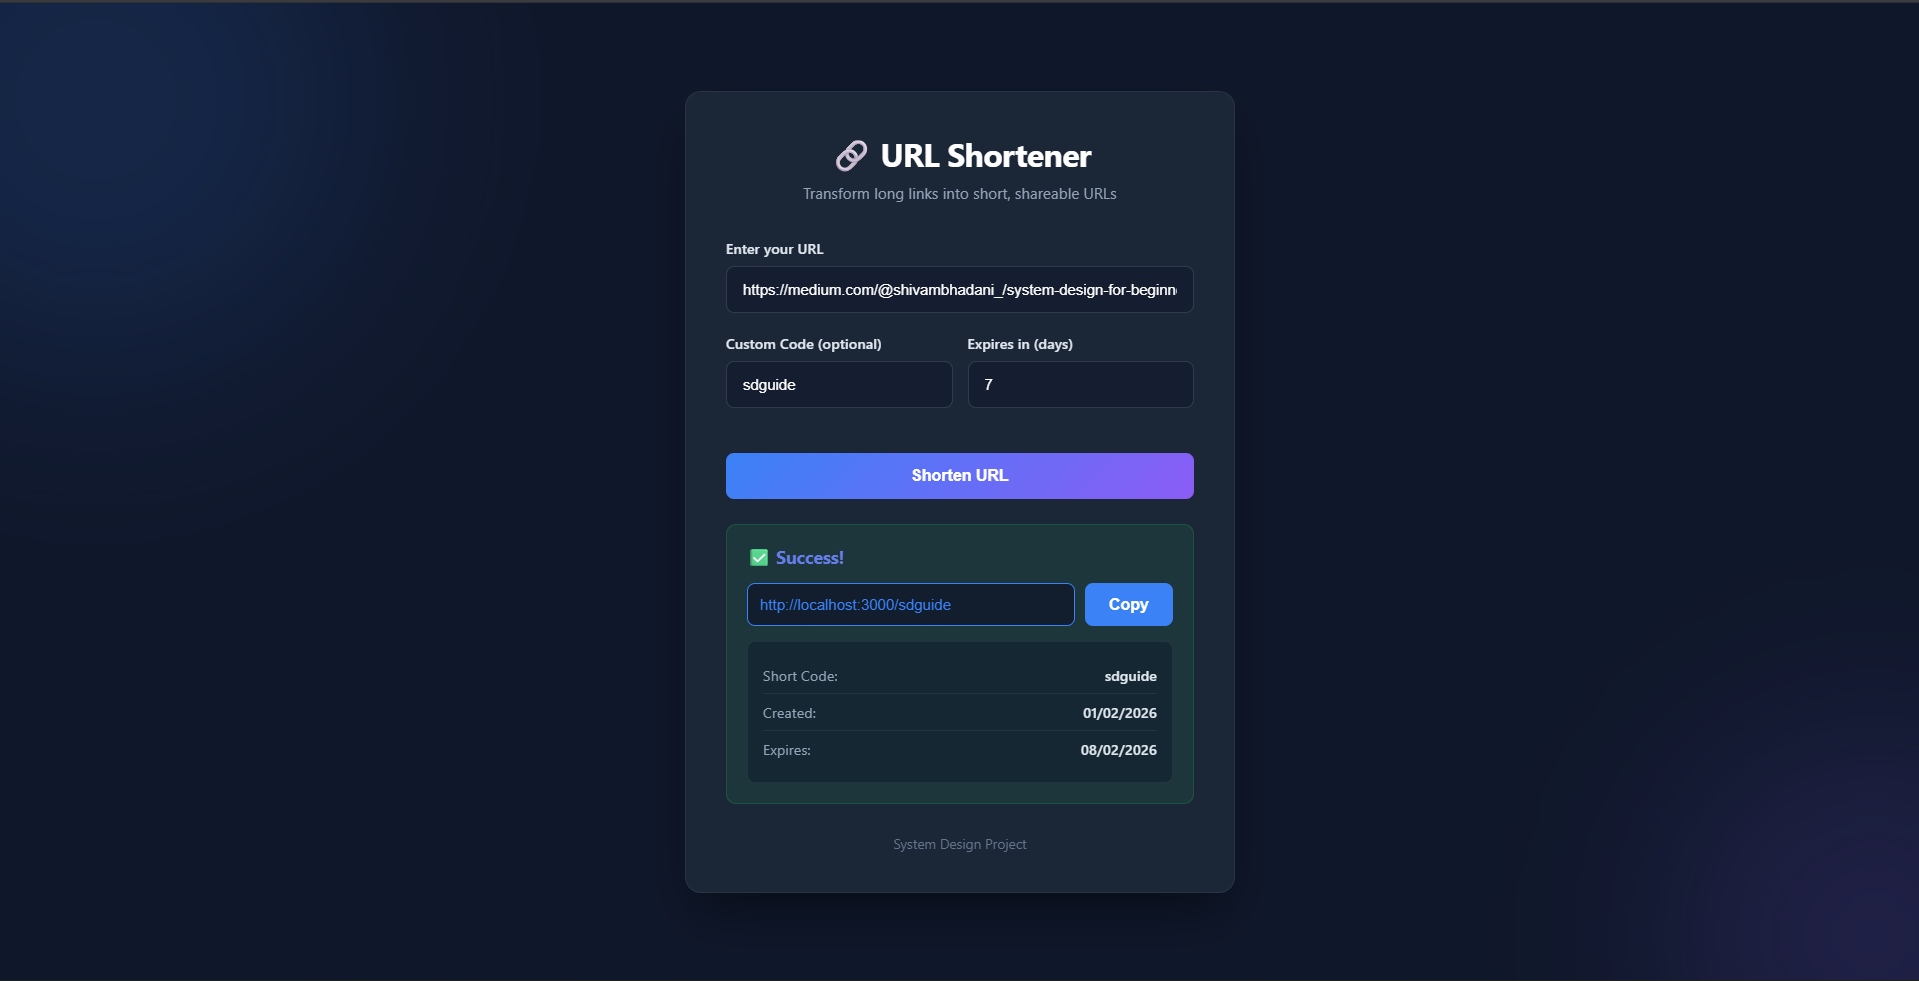
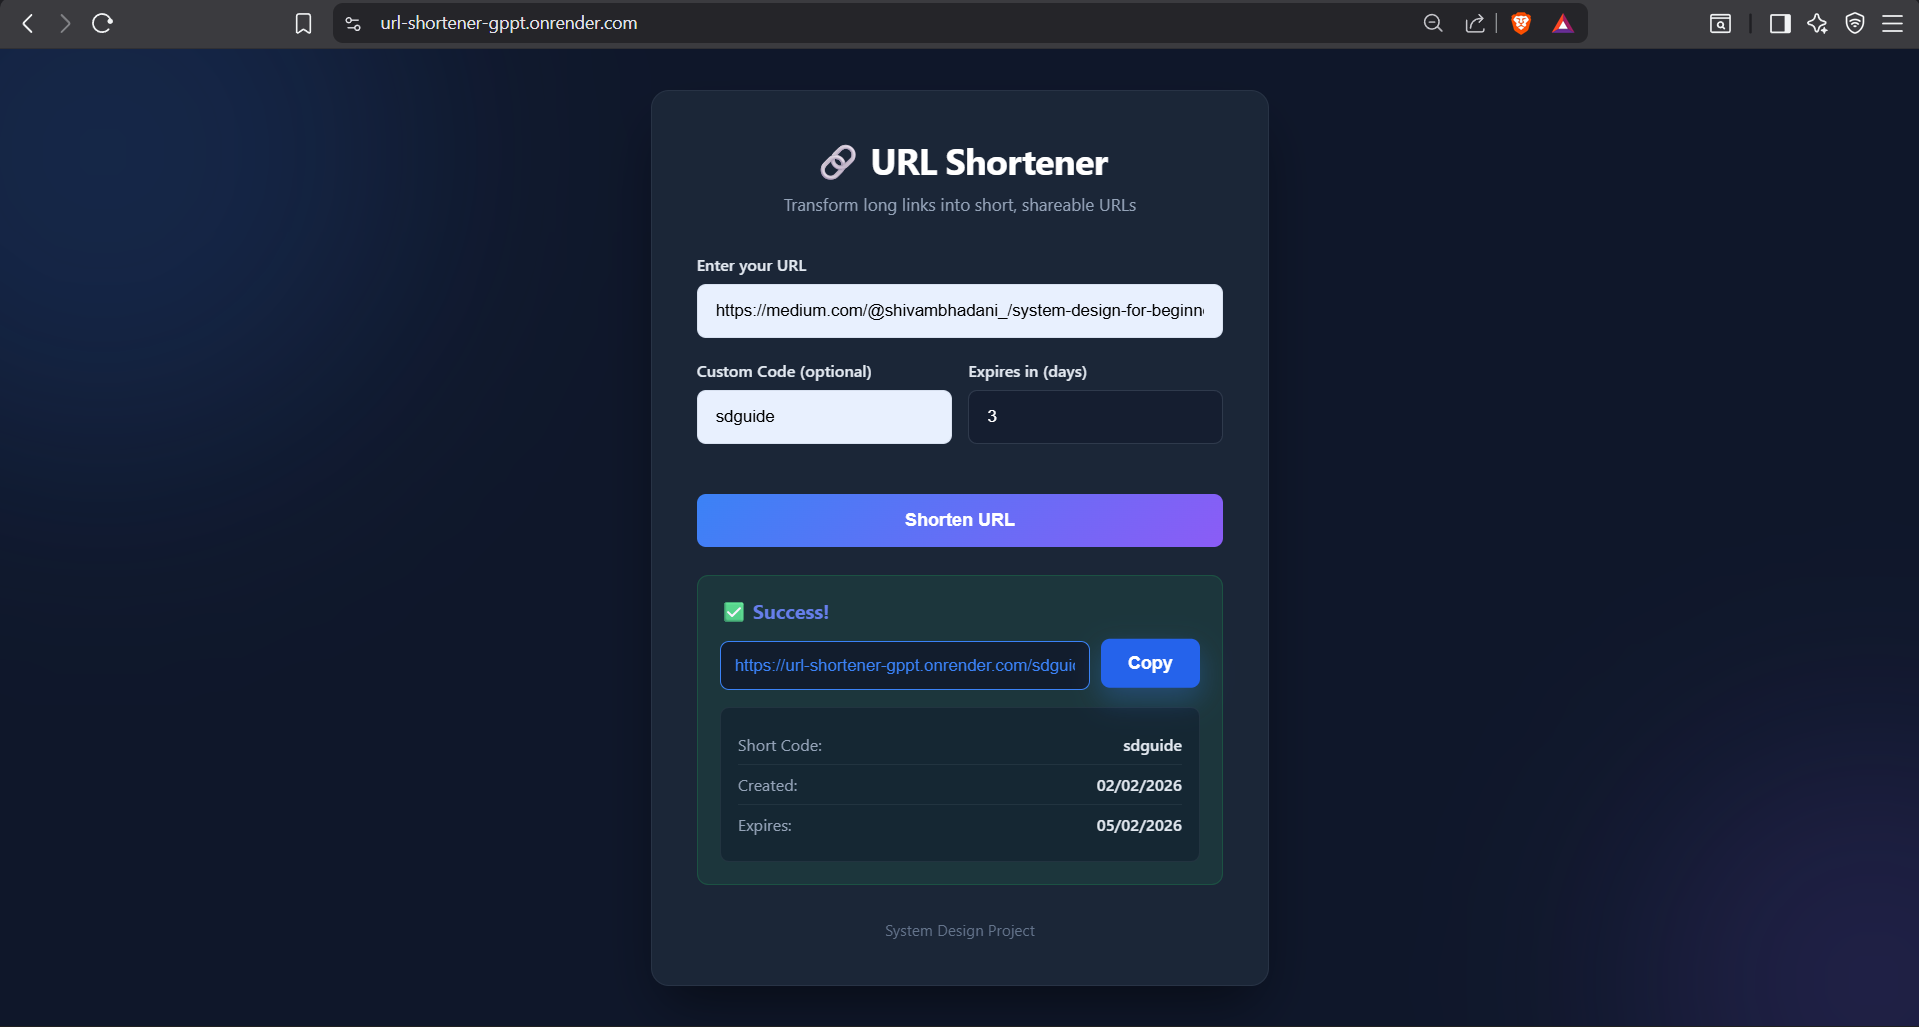
Update README and add result images

diff --git a/README.md b/README.md
@@ -64,9 +64,9 @@ Converts long URLs into short, shareable links with:
 - `validator` - Input sanitization
 
 **Deployment:**
-- AWS EC2 / Render.com
+- Render.com
 - PM2 for process management
-- NGINX for reverse proxy (optional)
+- NGINX for reverse proxy 
 
 ## Project Structure
 
@@ -110,7 +110,7 @@ url-shortener/
 ![URL Result](results/result.png)
 
 ### Analytics Dashboard 
-![Analytics](results/analytics.png)
+![Analytics](results/analytics1.png)
 
 ## Key System Design Decisions
 
@@ -128,7 +128,7 @@ url-shortener/
 ### Prerequisites
 - Node.js 18+
 - PostgreSQL 15+
-- Redis 7+ (optional but recommended)
+- Redis 7+ 
 
 ### Installation
 
@@ -182,7 +182,7 @@ Response:
 {
   "success": true,
   "data": {
-    "shortUrl": "http://localhost:3000/my-link",
+    "shortUrl": "http://localhost:3000/mylink",
     "shortCode": "my-link",
     "originalUrl": "https://example.com/very/long/url",
     "createdAt": "2024-01-30T10:00:00.000Z",
@@ -247,17 +247,10 @@ CREATE INDEX idx_created_at ON urls(created_at DESC);
 
 ## Deployment
 
-### Option 1: Render.com (Free)
-- Easiest deployment
-- Free PostgreSQL included
-- Auto-deploy from GitHub
-- See: [docs/RENDER_DEPLOYMENT.md](docs/RENDER_DEPLOYMENT.md)
-
-### Option 2: AWS (Free Tier)
-- EC2 t2.micro
-- RDS PostgreSQL
-- ElastiCache Redis
-- See: [docs/AWS_DEPLOYMENT.md](docs/AWS_DEPLOYMENT.md)
+Live Demo:- https://url-shortener-gppt.onrender.com/
+Successfully deployed on Render using 
+- PostgreSQL managed database
+- Auto deploy from github
 
 ## Testing
 
